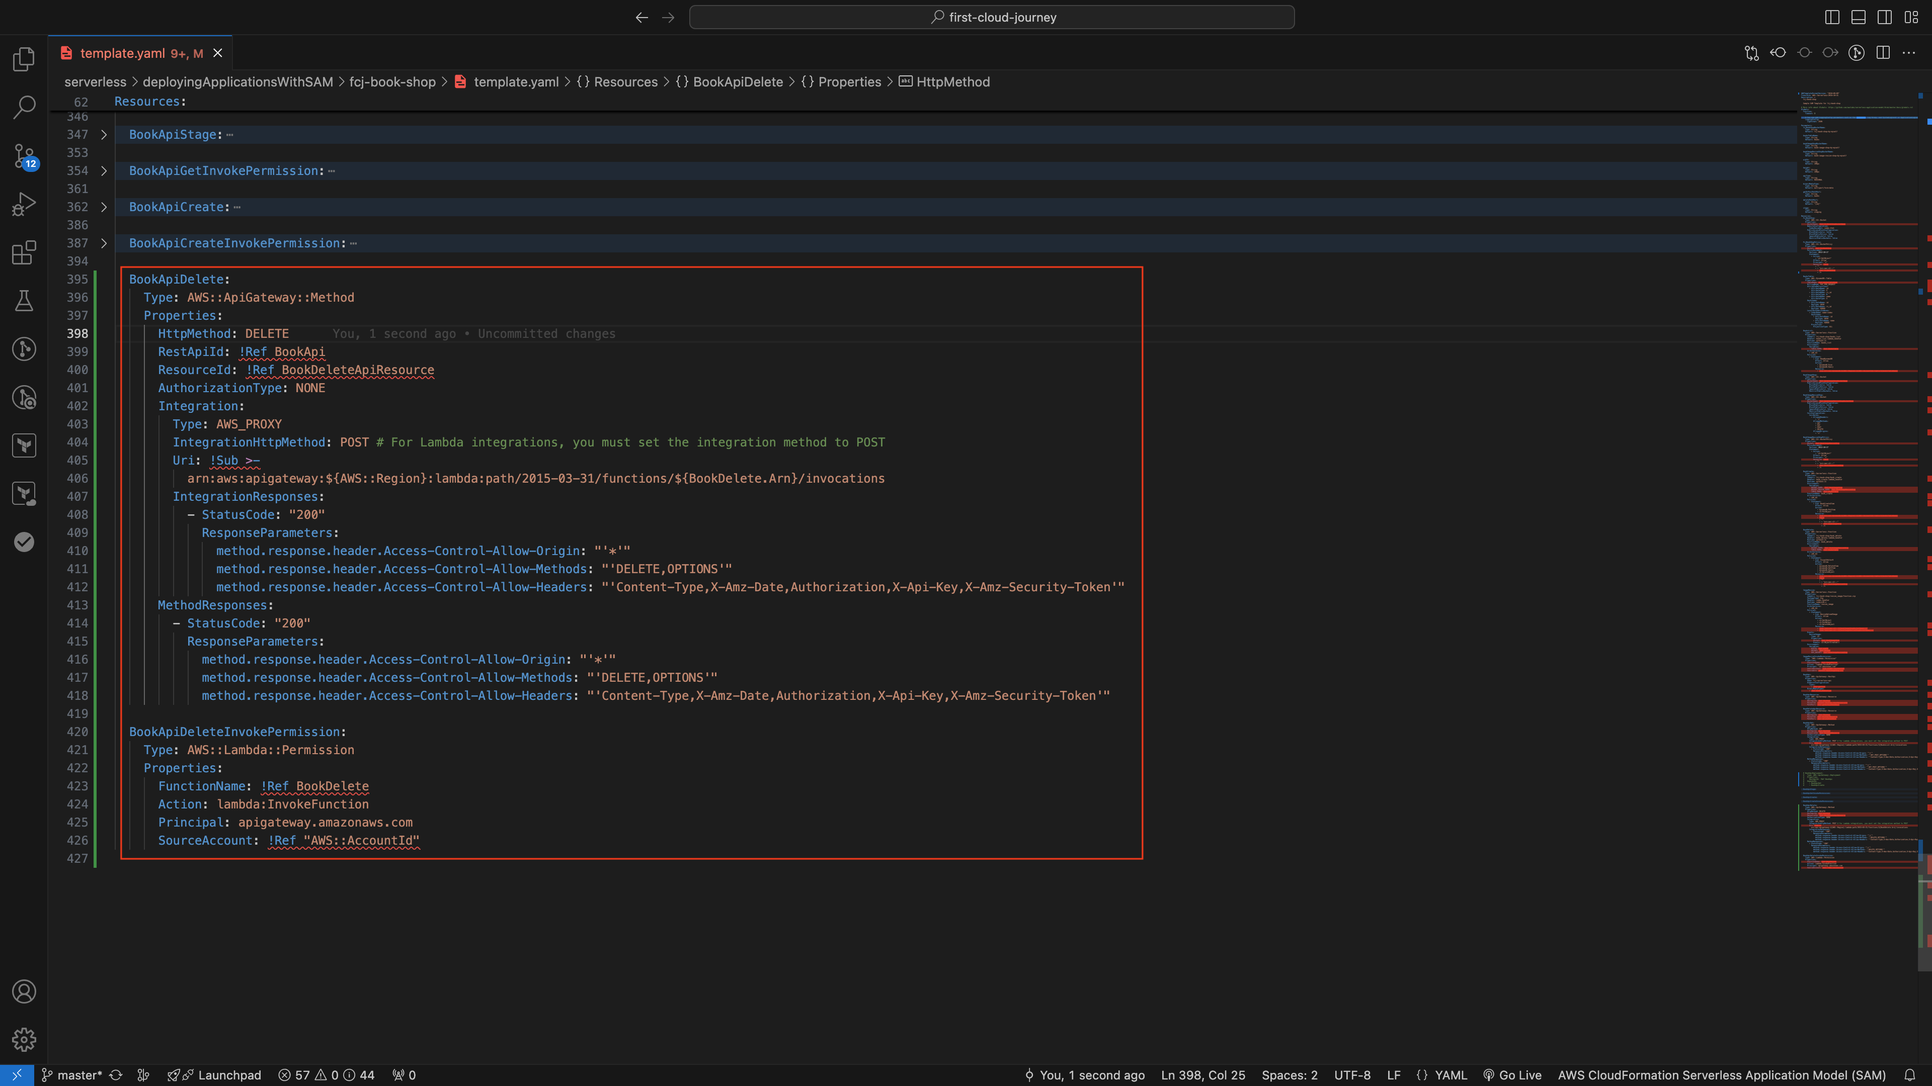
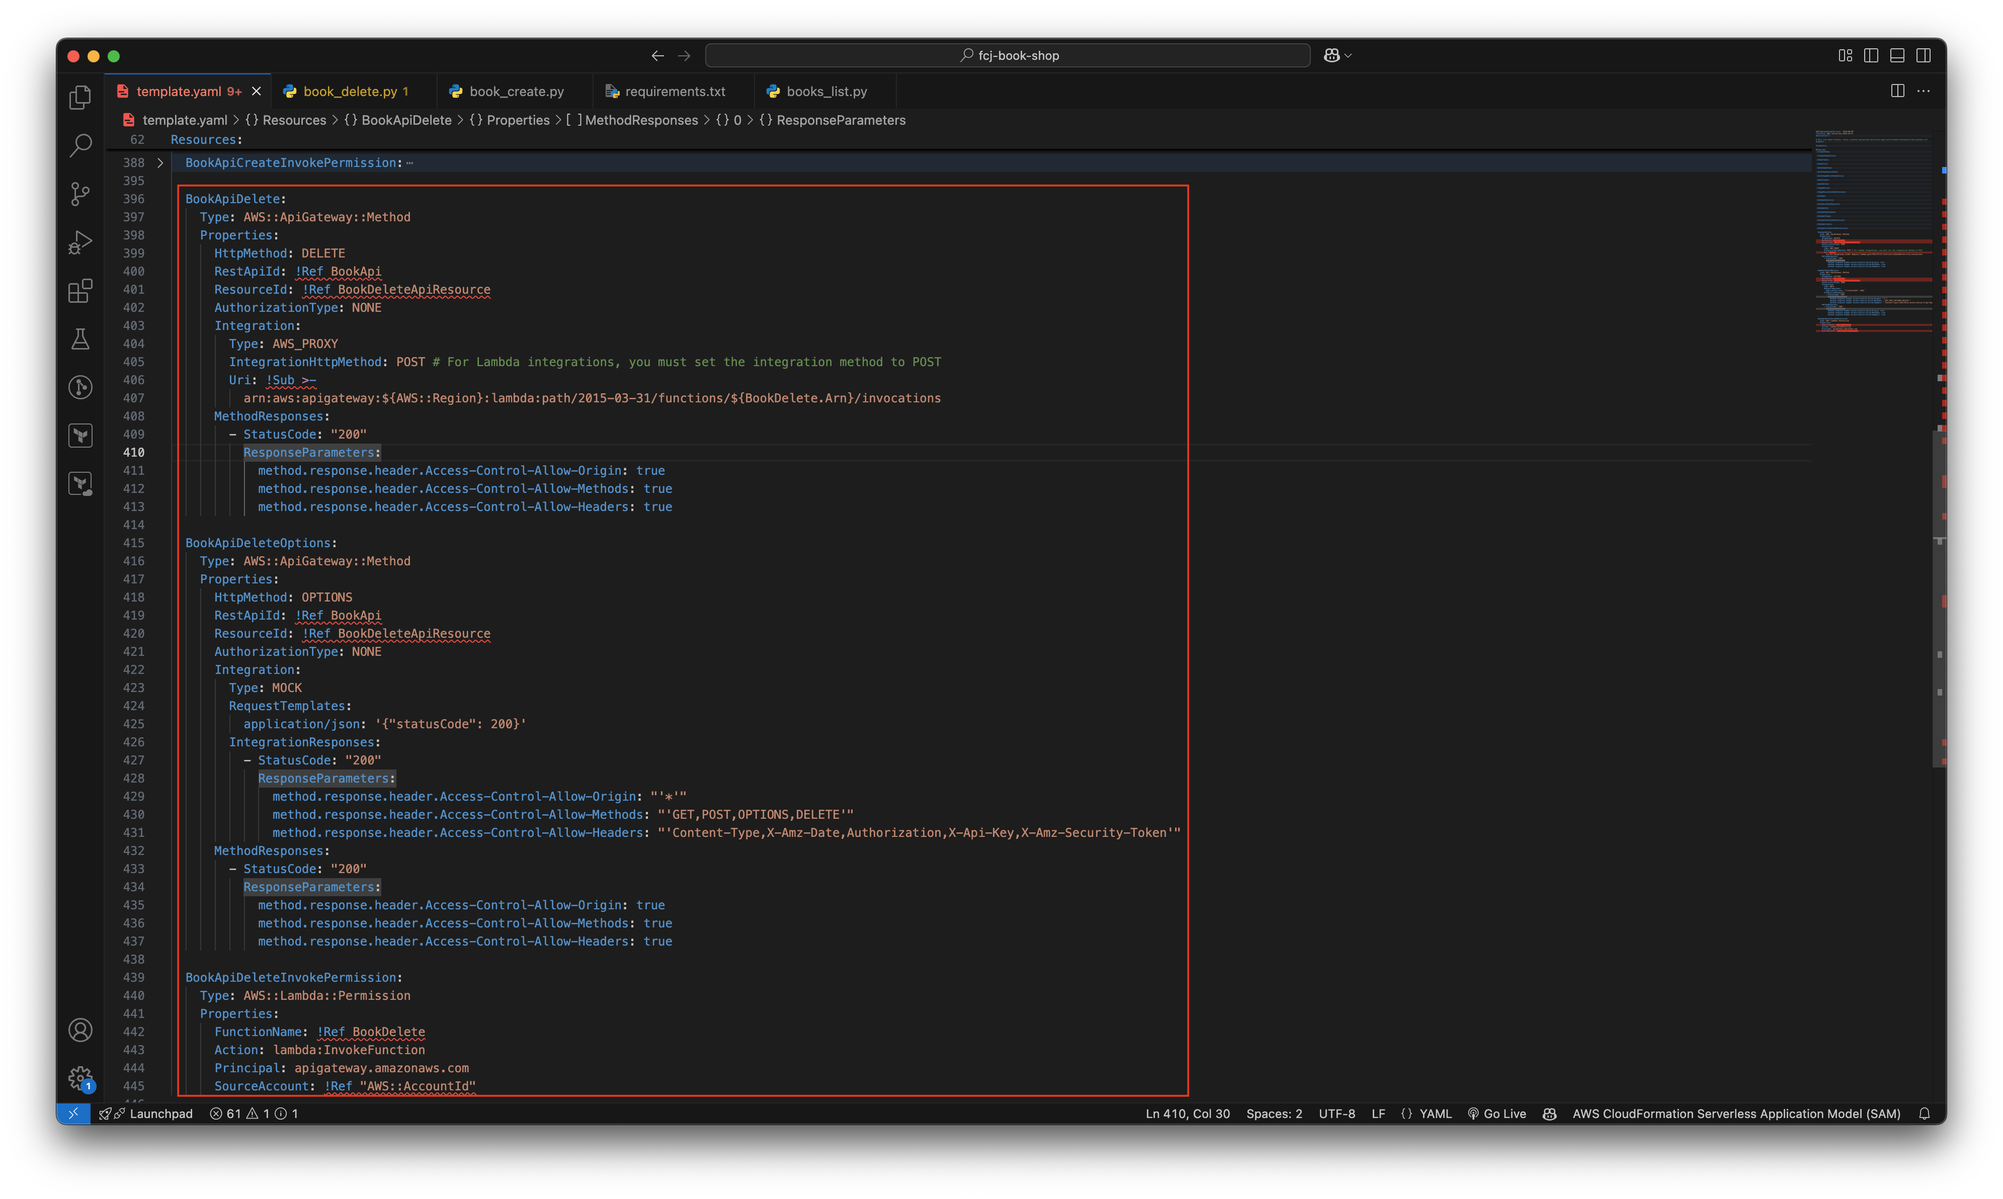
Refactor syntax md

diff --git a/content/6-test-front-end/_index.vi.md b/content/6-test-front-end/_index.vi.md
@@ -1,69 +1,76 @@
 ---
-title : "Kiểm tra API với front-end"
+title : "Kiểm tra APIs với front-end"
 date :  2025-02-11
 weight : 6
 chapter : false
 pre : " <b> 6. </b> "
 ---
-Sau khi kiểm tra các API hoạt động đúng với Postman, chúng ta sẽ kiểm tra các API được gọi với front-end xây dựng từ bước 2.
+Sau khi kiểm tra rằng các API hoạt động đúng với Postman, chúng ta sẽ kiểm tra các API được gọi với front-end được xây dựng từ phần 2.
 
-1. Mở tệp **config.js** trong thư mục **fcj-serverless-frontend** đã được tải về từ phần 2.
-    - Thay giá trị cho **APP_API_URL** bằng URL của bạn.
+1. Mở **config.js** trong thư mục **fcj-serverless-frontend** đã tải xuống từ phần 2.
+    - Thay đổi giá trị của **APP_API_URL** bằng URL của bạn.
       ![CreateRestAPI](/images/temp/1/91.png?width=90pc)
       ![CreateRestAPI](/images/temp/1/92.png?width=90pc)
 
-2. Mở tệp **App.js** trong thư mục **fcj-serverless-frontend/src/**, sửa giá trị của biến **isAdmin** thành **true**.
+2. Mở **package.json** trong thư mục **fcj-serverless-frontend** đã tải xuống từ phần 2.
+    - Thay đổi giá trị của **"proxy"** thành URL Invoke của API gateway của bạn.
+    > Đảm bảo bạn làm theo mẫu URL như dưới đây.
+
+      ![CreateRestAPI](/images/temp/1/103.png?width=90pc)
+
+3. Mở **App.js** trong **fcj-serverless-frontend/src/**, thay đổi giá trị của **isAdmin** thành **true**.
     ![CreateRestAPI](/images/temp/1/93.png?width=90pc)
 
-3. Chạy các dòng lệnh dưới đây.
+4. Chạy các lệnh dưới đây trong terminal của bạn.
 
     ```bash
     yarn build
-    aws s3 cp build s3://fcj-book-store --recursive
+    aws s3 rm s3://fcj-book-shop-by-myself --recursive
+    aws s3 cp build s3://fcj-book-shop-by-myself --recursive
     ```
 
-4. Dán endpoint của S3 static web vào browser của bạn. Ứng dụng đã hiện thông tin sách, nhưng vẫn chưa có ảnh vì chúng ta chưa tải ảnh lên.
+5. Dán endpoint của S3 static web vào trình duyệt của bạn. Ứng dụng đã hiển thị thông tin sách, nhưng vẫn chưa có hình ảnh vì chúng ta chưa tải lên hình ảnh.
     ![CreateRestAPI](/images/temp/1/94.png?width=90pc)
-Vậy API đọc dữ liệu đã hoạt động đúng.
+Vì vậy, API liệt kê đang hoạt động đúng.
 
-5. Kiểm tra API ghi dữ liệu.
-    - Ấn sang tab **Management**.
-    - Ấn nút **Update**.
+6. Kiểm tra API ghi.
+    - Nhấp vào tab **Management**.
+    - Nhấp vào **Update**.
       ![CreateRestAPI](/images/temp/1/95.png?width=90pc)
-    - Sửa bất kỳ thông tin gì bạn muốn trừ **id**.
-    - Ấn nút **Choose image**.
-    - Đưa ảnh dưới đây tải lên bucket:
+    - Chỉnh sửa bất cứ điều gì bạn muốn ngoại trừ **id**.
+    - Nhấp vào **Choose image**.
+    - Tải lên hình ảnh dưới đây vào bucket:
     {{%attachments title="Image" pattern=".*\.(jpeg)$"/%}}
-    - Ấn nút **Update**.
-    - Ấn nút **OK**.
+    - Nhấp vào **Update**.
+    - Nhấp vào **OK**.
       ![CreateRestAPI](/images/temp/1/96.png?width=90pc)
-    - Ảnh và thông tin được cập nhật
+    - Hình ảnh và thông tin đã được cập nhật.
       ![CreateRestAPI](/images/temp/1/97.png?width=90pc)
-    - Ấn sang tab **Create new book** ghi dữ liệu mới vào cơ sở dữ liệu.
-    - Nhập id bằng **5**
-    - Nhập tên: **Amazon Web Services in Action**
-    - Nhập tác giả: **Andreas Wittig**
-    - Nhập thể loại: **IT**
-    - Nhập giá: **59.99**
-    - Nhập mô tả: **Amazon Web Services in Action, Second Edition is a comprehensive introduction to computing, storing, and networking in the AWS cloud. You'll find clear, relevant coverage of all the essential AWS services you to know, emphasizing best practices for security, high availability and scalability.**
+    - Nhấn vào tab **Create new book** để viết dữ liệu mới vào cơ sở dữ liệu.
+    - Enter id with `5`
+    - Enter name: `Amazon Web Services in Action`
+    - Enter the author: `Andreas Wittig`
+    - Enter category: `IT`
+    - Enter price: `59.99`
+    - Enter a description: `Amazon Web Services in Action, Second Edition is a comprehensive introduction to computing, storing, and networking in the AWS cloud. You'll find clear, relevant coverage of all the essential AWS services you to know, emphasizing best practices for security, high availability, and scalability.`
 
     {{%attachments title="Image" pattern=".*\.(jpg)$"/%}}
 
-    - Ấn nút **Choose File** để tải ảnh lên.
-    - Ấn nút **Create**.
-    - Ấn nút **OK**.
-      ![CreateRestAPI](/images/temp/1/90.png?width=90pc)
-    - Hiển thị thông tin vừa tạo.
+    - Nhấn nút **Choose File** để tải lên hình ảnh.
+    - Nhấn nút **Create**.
+    - Nhấp vào **OK**.
+      ![CreateRestAPI](/images/temp/1/98.png?width=90pc)
+    - Hiển thị thông tin mới tạo.
       ![CreateRestAPI](/images/temp/1/99.png?width=90pc)
 
-6. Kiểm tra API xoá.  
-    - Ấn sang tab **Management**.
-    - Ấn nút **Update**.
+7. Kiểm tra API xóa.
+    - Nhấp vào tab **Management**.
+    - Nhấp vào **Update**.
       ![CreateRestAPI](/images/temp/1/100.png?width=90pc)
-    - Ấn nút **Delete**.
-    - Ấn nút **OK** để xác nhận xoá.
+    - Nhấp vào **Delete**.
+    - Nhấp vào **OK** để xác nhận xóa.
       ![CreateRestAPI](/images/temp/1/101.png?width=90pc)
-    - Xem kết quả sau khi xoá: không còn xuất hiện thông tin sách nữa.
+    - Xem kết quả sau khi xóa: không có thông tin sách xuất hiện.
       ![CreateRestAPI](/images/temp/1/102.png?width=90pc)
   
-Chúng ta đã hoàn thành việc xây dựng một ứng dụng web đơn giản theo mô hình serverless bằng cách dùng SAM.
+Chúng ta đã hoàn thành việc xây dựng một ứng dụng web đơn giản dựa trên SAM theo mô hình serverless.

diff --git a/content/6-test-front-end/_index.md b/content/6-test-front-end/_index.md
@@ -12,21 +12,28 @@ After testing that the APIs work properly with Postman, we will test the APIs th
       ![CreateRestAPI](/images/temp/1/91.png?width=90pc)
       ![CreateRestAPI](/images/temp/1/92.png?width=90pc)
 
-2. Open **App.js** in **fcj-serverless-frontend/src/**, change value of **isAdmin** with **true**.
+2. Open **package.json** in **fcj-serverless-frontend** folder that downloaded from part 2.
+    - Change the value of **"proxy"** to your API gateway Invoke URL.
+    > Make sure you follow the url pattern as below.
+
+      ![CreateRestAPI](/images/temp/1/103.png?width=90pc)
+
+3. Open **App.js** in **fcj-serverless-frontend/src/**, change value of **isAdmin** with **true**.
     ![CreateRestAPI](/images/temp/1/93.png?width=90pc)
 
-3. Run the code below in your terminal.
+4. Run the code below in your terminal.
 
     ```bash
     yarn build
+    aws s3 rm s3://fcj-book-shop-by-myself --recursive
     aws s3 cp build s3://fcj-book-shop-by-myself --recursive
     ```
 
-4. Paste the endpoint of S3 static web into your browser. The app already shows the book information, but still no pictures because we haven't uploaded the pictures yet.
+5. Paste the endpoint of S3 static web into your browser. The app already shows the book information, but still no pictures because we haven't uploaded the pictures yet.
     ![CreateRestAPI](/images/temp/1/94.png?width=90pc)
 So the listing API is working properly.
 
-5. Test writing API.
+6. Test writing API.
     - Click **Management** tab.
     - Click **Update**.
       ![CreateRestAPI](/images/temp/1/95.png?width=90pc)
@@ -40,23 +47,23 @@ So the listing API is working properly.
     - Image and information updated.
       ![CreateRestAPI](/images/temp/1/97.png?width=90pc)
     - Click on the **Create new book** tab to write new data to the database.
-    - Enter id with **5**
-    - Enter name: **Amazon Web Services in Action**
-    - Enter the author: **Andreas Wittig**
-    - Enter category: **IT**
-    - Enter price: **59.99**
-    - Enter a description: **Amazon Web Services in Action, Second Edition is a comprehensive introduction to computing, storing, and networking in the AWS cloud. You'll find clear, relevant coverage of all the essential AWS services you to know, emphasizing best practices for security, high availability, and scalability.**
+    - Enter id with `5`
+    - Enter name: `Amazon Web Services in Action`
+    - Enter the author: `Andreas Wittig`
+    - Enter category: `IT`
+    - Enter price: `59.99`
+    - Enter a description: `Amazon Web Services in Action, Second Edition is a comprehensive introduction to computing, storing, and networking in the AWS cloud. You'll find clear, relevant coverage of all the essential AWS services you to know, emphasizing best practices for security, high availability, and scalability.`
 
     {{%attachments title="Image" pattern=".*\.(jpg)$"/%}}
 
     - Press the **Choose File** button to upload the image.
     - Press the **Create** button.
     - Click **OK**.
-      ![CreateRestAPI](/images/temp/1/90.png?width=90pc)
+      ![CreateRestAPI](/images/temp/1/98.png?width=90pc)
     - Display newly created information.
       ![CreateRestAPI](/images/temp/1/99.png?width=90pc)
 
-6. Test the deleting API.
+7. Test the deleting API.
     - Click **Management** tab.
     - Click **Update**.
       ![CreateRestAPI](/images/temp/1/100.png?width=90pc)

diff --git a/content/4-config-api-gw/4-4-delete-api/_index.md b/content/4-config-api-gw/4-4-delete-api/_index.md
@@ -51,18 +51,36 @@ pre : " <b> 4.4. </b> "
             IntegrationHttpMethod: POST # For Lambda integrations, you must set the integration method to POST
             Uri: !Sub >-
               arn:aws:apigateway:${AWS::Region}:lambda:path/2015-03-31/functions/${BookDelete.Arn}/invocations
+          MethodResponses:
+            - StatusCode: "200"
+              ResponseParameters:
+                method.response.header.Access-Control-Allow-Origin: true
+                method.response.header.Access-Control-Allow-Methods: true
+                method.response.header.Access-Control-Allow-Headers: true
+
+      BookApiDeleteOptions:
+        Type: AWS::ApiGateway::Method
+        Properties:
+          HttpMethod: OPTIONS
+          RestApiId: !Ref BookApi
+          ResourceId: !Ref BookDeleteApiResource
+          AuthorizationType: NONE
+          Integration:
+            Type: MOCK
+            RequestTemplates:
+              application/json: '{"statusCode": 200}'
             IntegrationResponses:
               - StatusCode: "200"
                 ResponseParameters:
                   method.response.header.Access-Control-Allow-Origin: "'*'"
-                  method.response.header.Access-Control-Allow-Methods: "'DELETE,OPTIONS'"
+                  method.response.header.Access-Control-Allow-Methods: "'GET,POST,OPTIONS,DELETE'"
                   method.response.header.Access-Control-Allow-Headers: "'Content-Type,X-Amz-Date,Authorization,X-Api-Key,X-Amz-Security-Token'"
           MethodResponses:
             - StatusCode: "200"
               ResponseParameters:
-                method.response.header.Access-Control-Allow-Origin: "'*'"
-                method.response.header.Access-Control-Allow-Methods: "'DELETE,OPTIONS'"
-                method.response.header.Access-Control-Allow-Headers: "'Content-Type,X-Amz-Date,Authorization,X-Api-Key,X-Amz-Security-Token'"
+                method.response.header.Access-Control-Allow-Origin: true
+                method.response.header.Access-Control-Allow-Methods: true
+                method.response.header.Access-Control-Allow-Headers: true
 
       BookApiDeleteInvokePermission:
         Type: AWS::Lambda::Permission

diff --git a/content/3-deploy-lambda-function/3-2-deploy-lambda-function/3-2-1-list-data-function/_index.vi.md b/content/3-deploy-lambda-function/3-2-deploy-lambda-function/3-2-1-list-data-function/_index.vi.md
@@ -13,26 +13,26 @@ Chúng ta sẽ tạo một hàm Lambda để đọc tất cả dữ liệu trong
 
     ```yml
     BooksList:
-    Type: AWS::Serverless::Function
-    Properties:
-      CodeUri: fcj-book-shop/books_list
-      Handler: books_list.lambda_handler
-      Runtime: python3.11
-      FunctionName: books_list
-      Environment:
-        Variables:
-          TABLE_NAME: !Ref BooksTable
-      Architectures:
-        - x86_64
-      Policies:
-        - Statement:
-            - Sid: ReadDynamoDB
-              Effect: Allow
-              Action:
-                - dynamodb:Scan
-                - dynamodb:Query
-              Resource:
-                - !Sub arn:aws:dynamodb:${AWS::Region}:${AWS::AccountId}:table/${booksTableName}
+      Type: AWS::Serverless::Function
+      Properties:
+        CodeUri: fcj-book-shop/books_list
+        Handler: books_list.lambda_handler
+        Runtime: python3.11
+        FunctionName: books_list
+        Environment:
+          Variables:
+            TABLE_NAME: !Ref BooksTable
+        Architectures:
+          - x86_64
+        Policies:
+          - Statement:
+              - Sid: ReadDynamoDB
+                Effect: Allow
+                Action:
+                  - dynamodb:Scan
+                  - dynamodb:Query
+                Resource:
+                  - !Sub arn:aws:dynamodb:${AWS::Region}:${AWS::AccountId}:table/${booksTableName}
     ```
 
     ![LambdaListFunction](/images/temp/1/33.png?width=90pc)
@@ -104,6 +104,7 @@ Chúng ta sẽ tạo một hàm Lambda để đọc tất cả dữ liệu trong
       ```
 
 4. Chạy lệnh sau để triển khai SAM.
+    > Nếu bạn gặp vấn đề với phiên bản Python, hãy làm theo hướng dẫn này để thiết lập môi trường Python ảo: [pyenv Github page](<https://github.com/pyenv/pyenv>).
 
     ```bash
     sam build

diff --git a/content/3-deploy-lambda-function/3-2-deploy-lambda-function/3-2-1-list-data-function/_index.md b/content/3-deploy-lambda-function/3-2-deploy-lambda-function/3-2-1-list-data-function/_index.md
@@ -13,26 +13,26 @@ We will create a Lambda function that reads all the data in the DynamoDB table.
 
     ```yml
     BooksList:
-    Type: AWS::Serverless::Function
-    Properties:
-      CodeUri: fcj-book-shop/books_list
-      Handler: books_list.lambda_handler
-      Runtime: python3.11
-      FunctionName: books_list
-      Environment:
-        Variables:
-          TABLE_NAME: !Ref BooksTable
-      Architectures:
-        - x86_64
-      Policies:
-        - Statement:
-            - Sid: ReadDynamoDB
-              Effect: Allow
-              Action:
-                - dynamodb:Scan
-                - dynamodb:Query
-              Resource:
-                - !Sub arn:aws:dynamodb:${AWS::Region}:${AWS::AccountId}:table/${booksTableName}
+      Type: AWS::Serverless::Function
+      Properties:
+        CodeUri: fcj-book-shop/books_list
+        Handler: books_list.lambda_handler
+        Runtime: python3.11
+        FunctionName: books_list
+        Environment:
+          Variables:
+            TABLE_NAME: !Ref BooksTable
+        Architectures:
+          - x86_64
+        Policies:
+          - Statement:
+              - Sid: ReadDynamoDB
+                Effect: Allow
+                Action:
+                  - dynamodb:Scan
+                  - dynamodb:Query
+                Resource:
+                  - !Sub arn:aws:dynamodb:${AWS::Region}:${AWS::AccountId}:table/${booksTableName}
     ```
 
     ![LambdaListFunction](/images/temp/1/33.png?width=90pc)
@@ -104,6 +104,7 @@ We will create a Lambda function that reads all the data in the DynamoDB table.
       ```
 
 4. Run the following command to deploy SAM.
+    > If you have issues with Python version, following this instruction for setting up an virtual Python environment: [pyenv Github page](<https://github.com/pyenv/pyenv>).
 
     ```bash
     sam build

diff --git a/content/7-cleanup/_index.md b/content/7-cleanup/_index.md
@@ -12,13 +12,15 @@ pre : " <b> 7. </b> "
     - Click **Empty**.
     - Enter **permanently delete**.
     - Click **Empty**.
-    - Do the same for bucket starting with **aws-sam-cli-managed-default-**.
+    - Do the same for bucket starting with **aws-sam-cli-managed-default-**, **book-image-shop-by-myself** and **book-image-resize-shop-by-myself**.
 
 2. Delete CloudFormation stacks.
 
     - Execute the below command to delete the AWS SAM application.
 
       ```bash
-      sam delete --stack-name fcj-book-store
+      sam delete --stack-name fcj-book-shop
       sam delete --stack-name aws-sam-cli-managed-default
       ```
+
+    - If you have issues when deleting with command. Open [AWS Cloudformation console](https://us-east-1.console.aws.amazon.com/cloudformation/home?region=us-east-1#/getting-started). Then, delete all stacks related to this workshop.

diff --git a/content/3-deploy-lambda-function/3-2-deploy-lambda-function/3-2-4-resize-image-function/_index.vi.md b/content/3-deploy-lambda-function/3-2-deploy-lambda-function/3-2-4-resize-image-function/_index.vi.md
@@ -76,9 +76,7 @@ Trong bước này, chúng ta sẽ tạo một hàm Lambda mới để chỉnh k
 
       ![LambdaResizeFunction](/images/temp/1/55.png?width=90pc)
 
-    {{% notice warning %}}
-    Nếu bạn tạo tên bucket S3 khác với tên trong bài lab, vui lòng kiểm tra **Chính sách | Tài nguyên** hoặc **Môi trường** của các tài nguyên và cập nhật.
-    {{% /notice %}}
+      > Nếu bạn tạo tên bucket S3 khác với tên trong bài lab, vui lòng kiểm tra **Chính sách | Tài nguyên** hoặc **Môi trường** của các tài nguyên và cập nhật.
 
 3. Cấu trúc thư mục như sau.
 

diff --git a/content/3-deploy-lambda-function/3-2-deploy-lambda-function/3-2-4-resize-image-function/_index.md b/content/3-deploy-lambda-function/3-2-deploy-lambda-function/3-2-4-resize-image-function/_index.md
@@ -76,9 +76,7 @@ In this step we create a new Lambda function that resizes the image after the us
 
       ![LambdaResizeFunction](/images/temp/1/55.png?width=90pc)
 
-    {{% notice warning %}}
-    If you create S3 bucket names that are different from the ones in the lab, please check **Policies | Resources** or **Environment** of resources and update.
-    {{% /notice %}}
+      > If you create S3 bucket names that are different from the ones in the lab, please check **Policies | Resources** or **Environment** of resources and update.
 
 3. The directory structure is as follows.
 

diff --git a/content/3-deploy-lambda-function/3-2-deploy-lambda-function/3-2-2-write-data-function/_index.vi.md b/content/3-deploy-lambda-function/3-2-deploy-lambda-function/3-2-2-write-data-function/_index.vi.md
@@ -111,9 +111,7 @@ Trong bước này, chúng ta sẽ tạo một hàm Lambda mới để ghi dữ 
 
       ![LambdaCreateFunction](/images/temp/1/40.png?width=90pc)
 
-    {{% notice warning %}}
-    Nếu tên S3 bucket bạn tạo khác với tên trong bài lab, vui lòng cập nhật **Chính sách | Tài nguyên** của hàm **book_create** bằng tên đó.
-    {{% /notice %}}
+      > If you create S3 bucket name is different from the one in the lab, please update **Policies | Resources** of **book_create** function with that name.
 
 3. Cấu trúc thư mục như sau.
 

diff --git a/content/3-deploy-lambda-function/3-2-deploy-lambda-function/3-2-2-write-data-function/_index.md b/content/3-deploy-lambda-function/3-2-deploy-lambda-function/3-2-2-write-data-function/_index.md
@@ -111,9 +111,7 @@ In this step we create a new Lambda function to write data to DynamoDB on SAM.
 
       ![LambdaCreateFunction](/images/temp/1/40.png?width=90pc)
 
-    {{% notice warning %}}
-    If you create S3 bucket name is different from the one in the lab, please update **Policies | Resources** of **book_create** function with that name.
-    {{% /notice %}}
+      > If you create S3 bucket name is different from the one in the lab, please update **Policies | Resources** of **book_create** function with that name.
 
 3. The directory structure is as follows.
 
